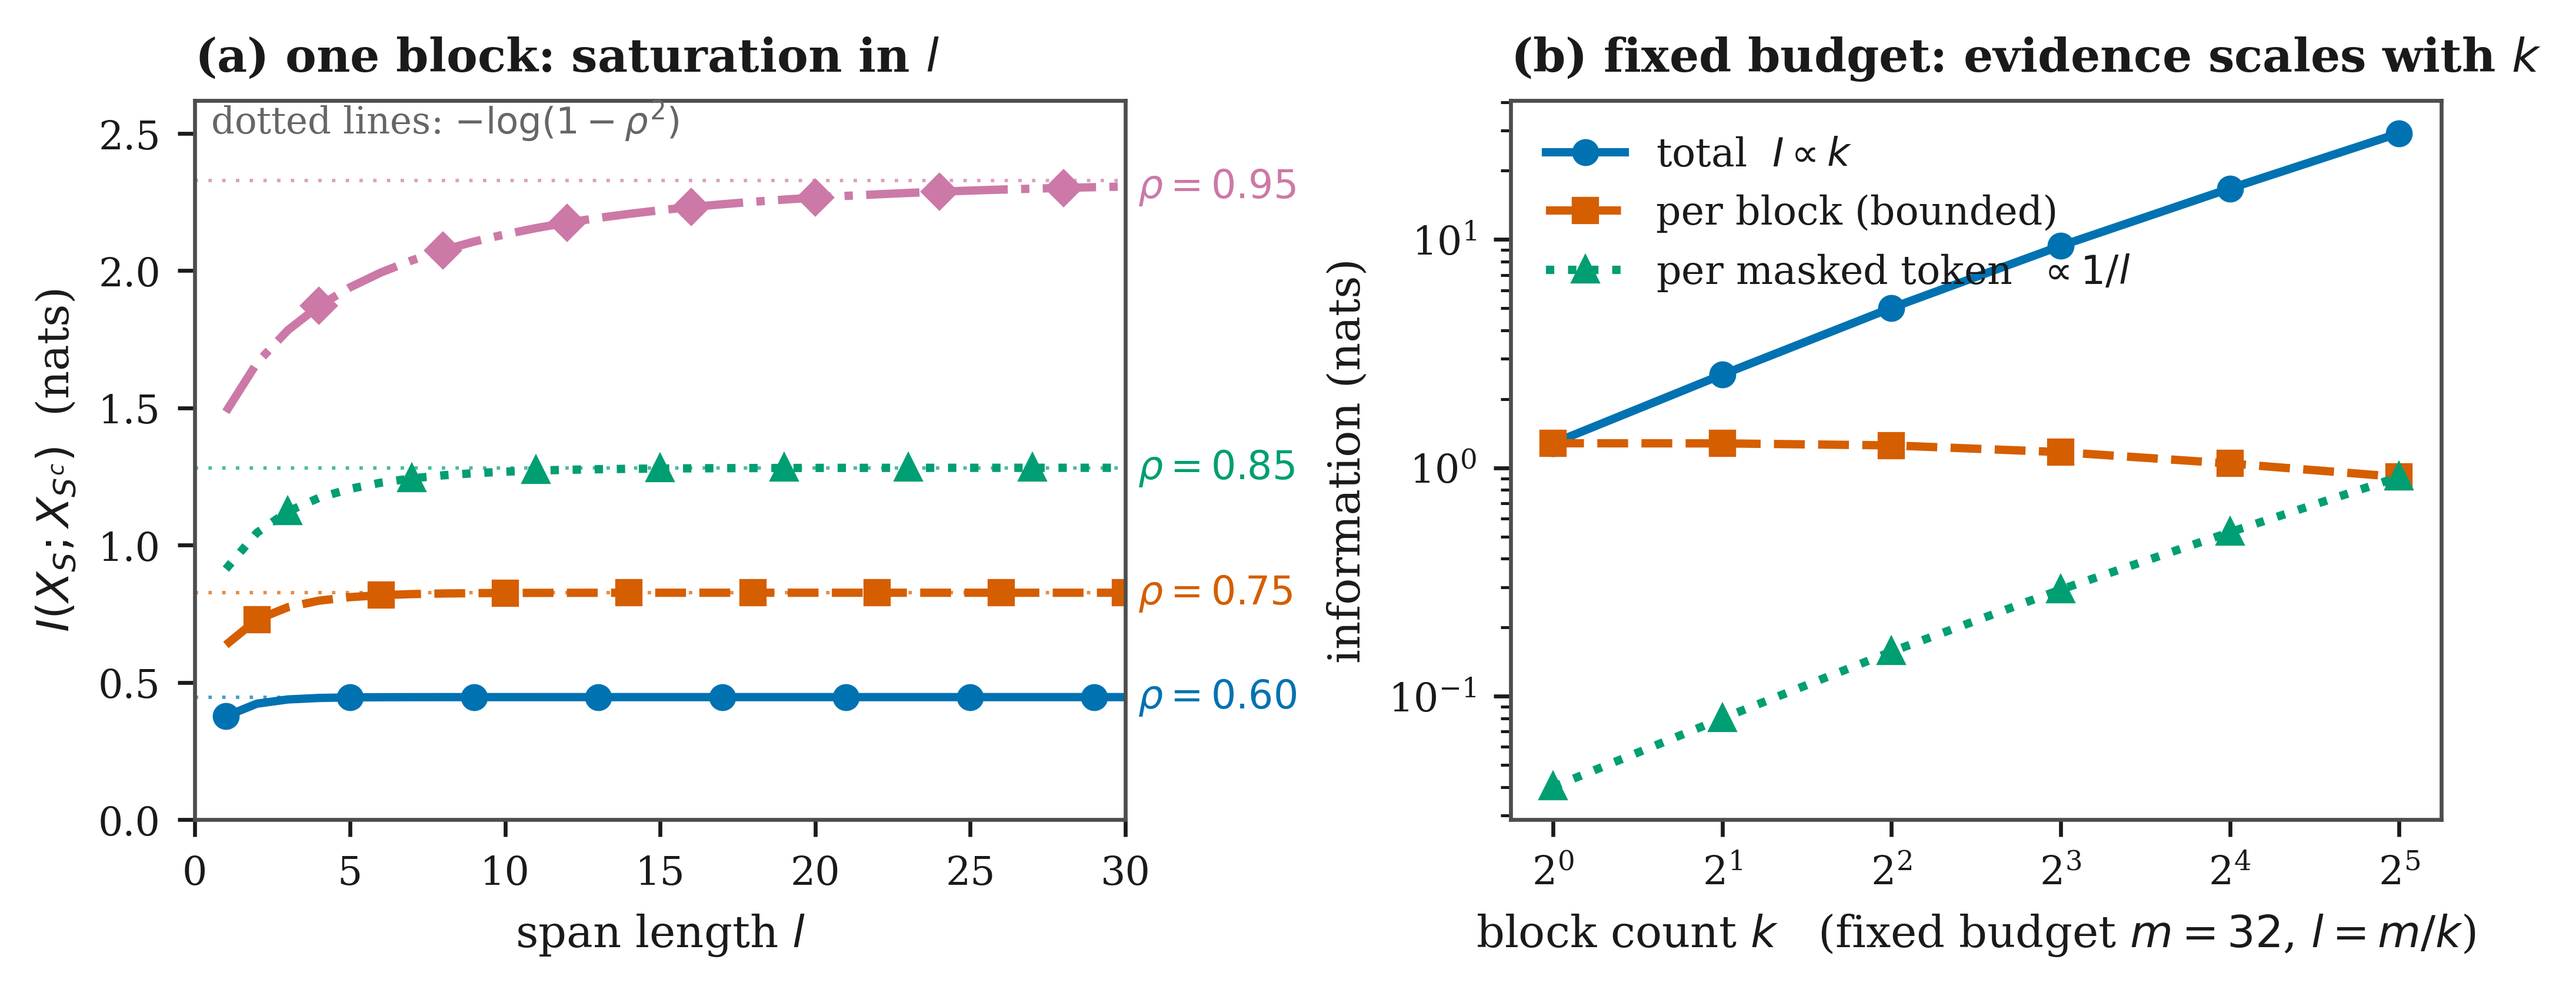
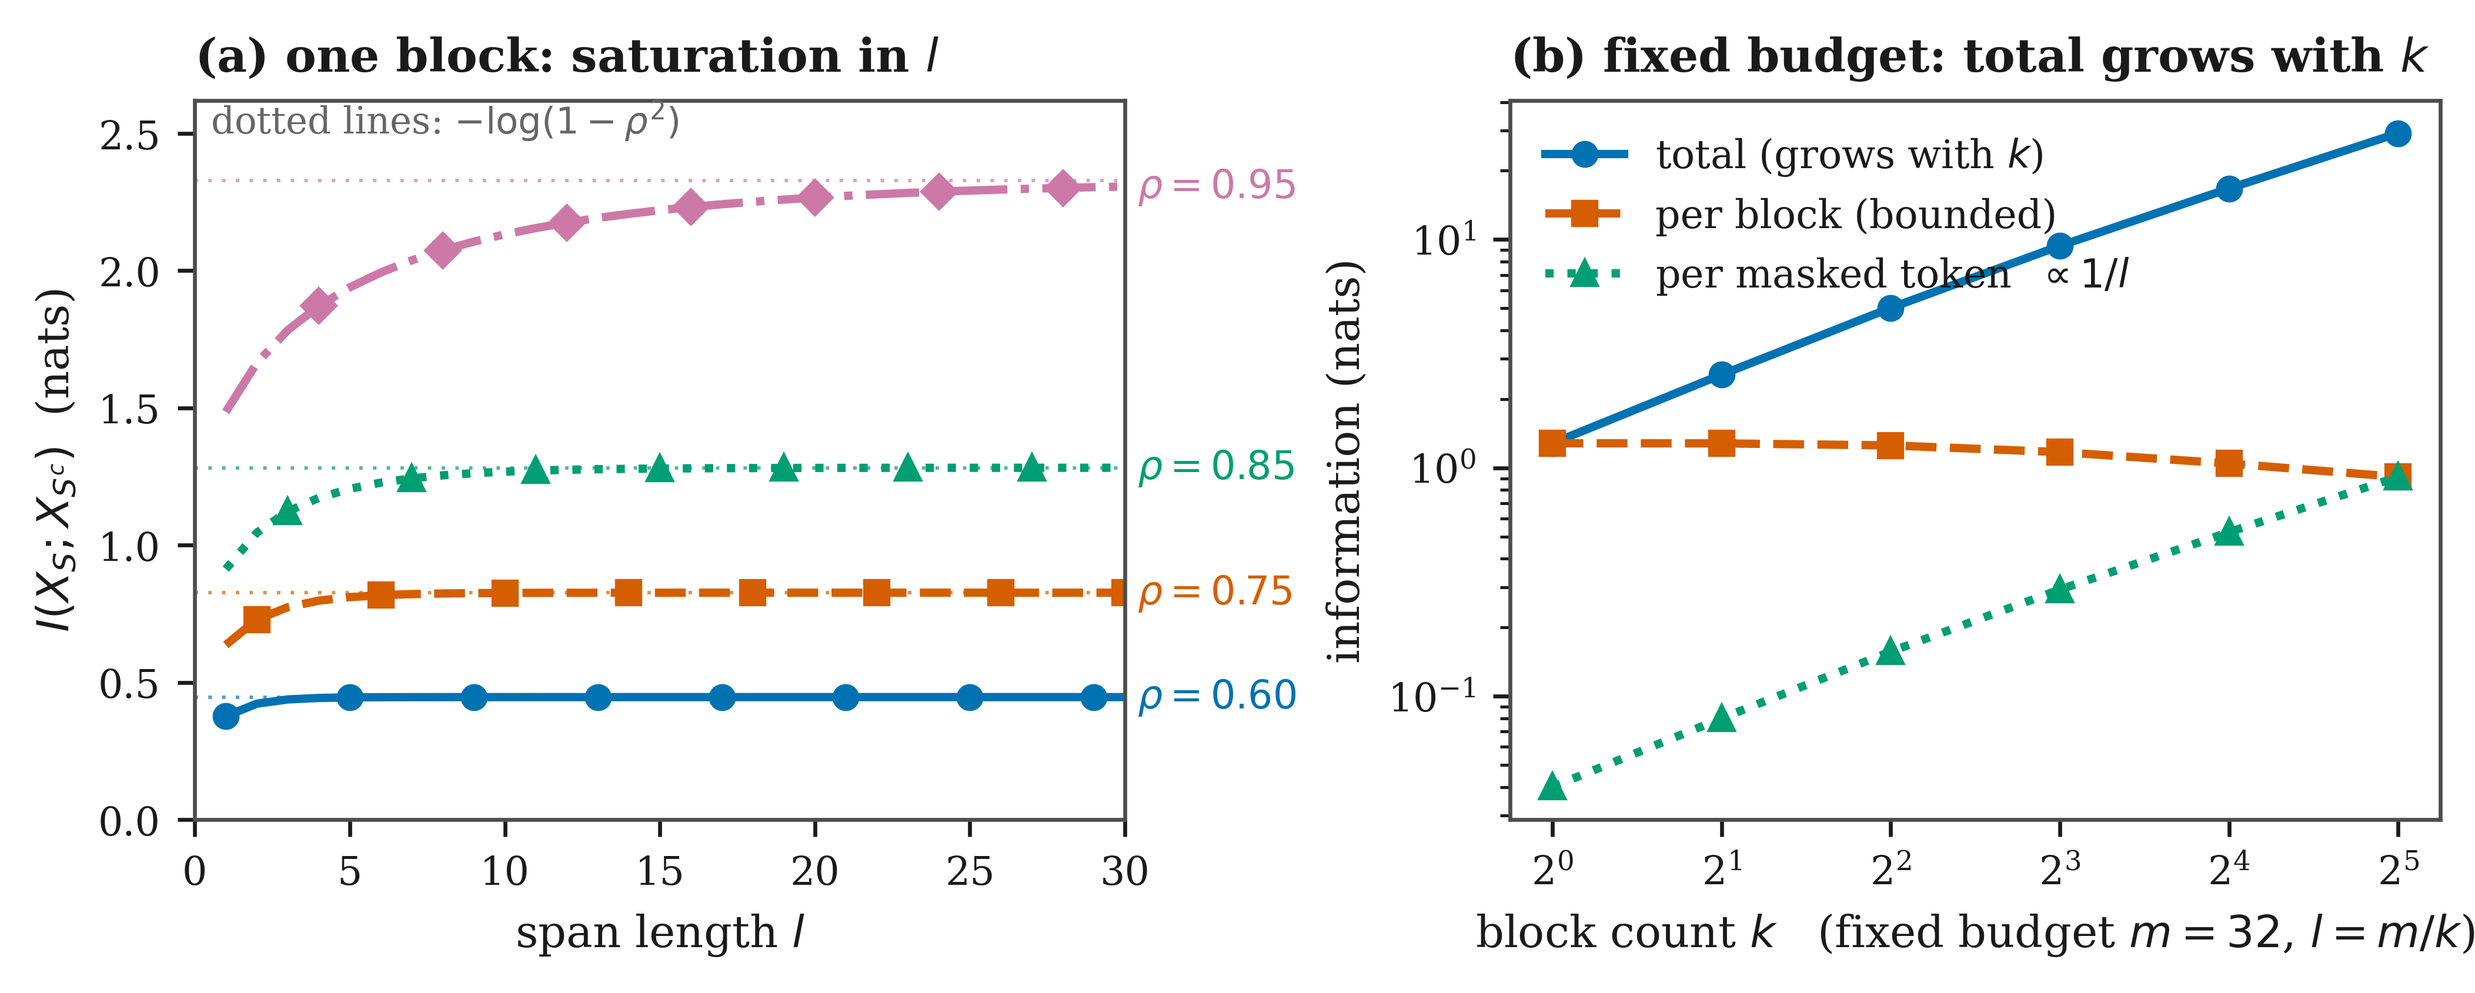
Retitle Figure 2(b) to "total grows with k" (round-2 revision)

diff --git a/figures/make_figures.py b/figures/make_figures.py
@@ -150,7 +150,8 @@ def fig1_schematic():
 def fig2_theorem1():
     """Theorem 1 and Corollary 1.1. Left: total information saturates in
     the span length at -log(1-rho^2). Right: at a fixed masking budget
-    the information is proportional to the block count. Curves are the
+    the total grows with the block count while the per-block
+    amount stays bounded. Curves are the
     closed form verified in verify_thm1.py (max error 1.5e-13 nats)."""
     fig, (axL, axR) = plt.subplots(1, 2, figsize=(DBL_W, 2.7))
 
@@ -179,7 +180,7 @@ def fig2_theorem1():
     ks = np.array([1, 2, 4, 8, 16, 32])
     per_block = mi_block_ar1(m / ks, rho)
     axR.plot(ks, ks * per_block, linestyle="-", marker="o", color=BLUE,
-             label="total  " + r"$I \propto k$")
+             label="total (grows with $k$)")
     axR.plot(ks, per_block, linestyle="--", marker="s", color=VERM,
              label="per block (bounded)")
     axR.plot(ks, ks * per_block / m, linestyle=":", marker="^", color=GREEN,
@@ -188,7 +189,7 @@ def fig2_theorem1():
     axR.set_yscale("log")
     axR.set_xlabel(r"block count $k$   (fixed budget $m = 32$, $l = m/k$)")
     axR.set_ylabel("information (nats)")
-    axR.set_title(r"(b) fixed budget: evidence scales with $k$", loc="left")
+    axR.set_title(r"(b) fixed budget: total grows with $k$", loc="left")
     axR.legend(frameon=False, loc="upper left")
 
     save(fig, "fig2_theorem1_saturation")
